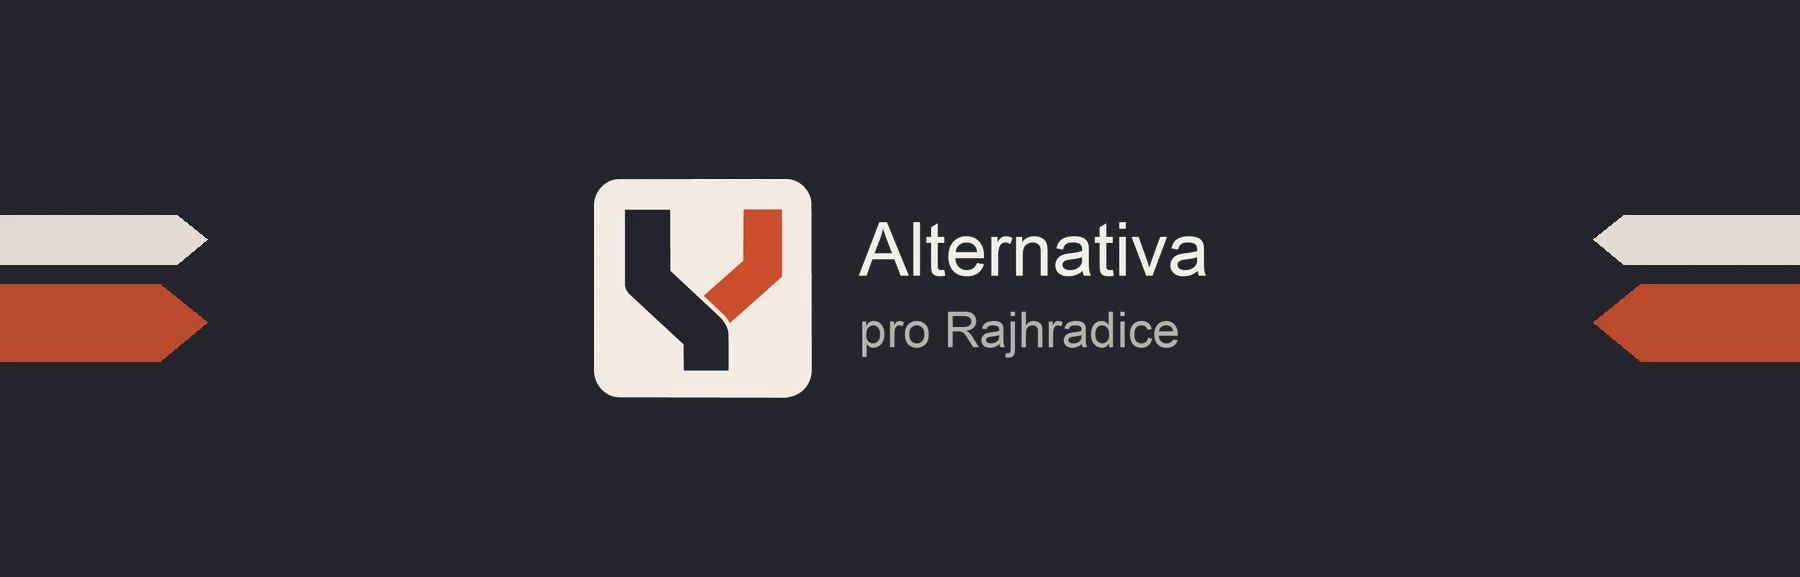
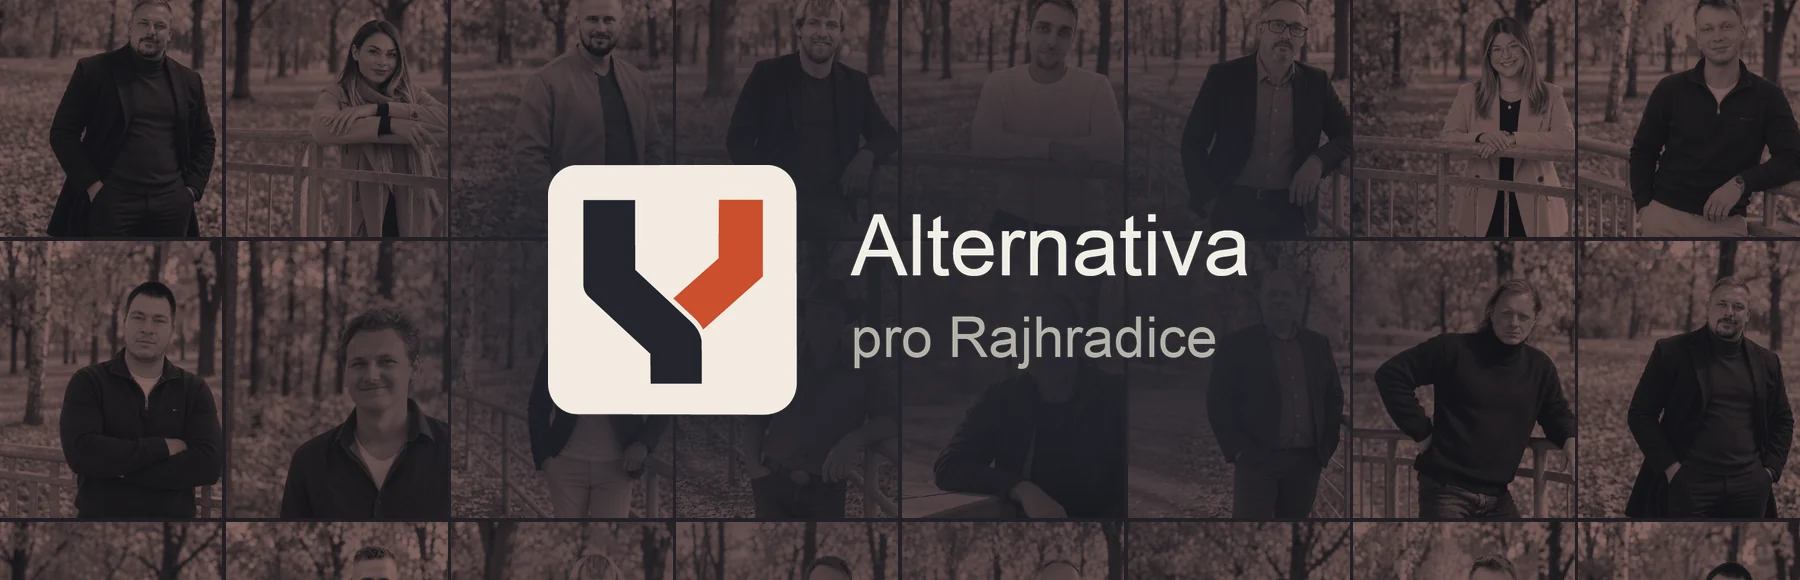
New share image, mosaic archive card, drop the website shots
Sharing the site now shows the hero: the dotted grid with TOMÁŠ HÁJEK and
Grafický designér. It lives under a new file name, so networks that cached
the old vinyl picture fetch it fresh. The Alternativa archive card uses
the candidate mosaic behind the logo, and the website screenshots are
gone from the case study.

diff --git a/projects/alternativa.html b/projects/alternativa.html
@@ -296,29 +296,7 @@
                 <div class="pd-section">
                     <h2 class="pd-title" data-en="Website">Web</h2>
                     <p class="pd-text" data-en="Everything the flyer and the posts point to lives on the website: profiles of the candidates, the full programme, the series of videos and a guide to voting in municipal elections. It uses the same cream, dark and brick as the rest of the campaign.">Všechno, na co leták a příspěvky odkazují, je na webu: medailonky kandidátů, celé znění programu, série videí a návod, jak volit v komunálních volbách. Stojí na stejné krémové, tmavé a cihlové jako zbytek kampaně.</p>
-                    <img src="../img/works/Alternativa/web-domu.webp" class="pd-image" alt="Úvodní stránka webu — heslo Máme tým, máme plán, máme sílu věci měnit přes fotky kandidátů" data-alt-en="The home page — the slogan We have a team, a plan and the strength to change things, over photos of the candidates" width="1920" height="981" loading="lazy">
-                            <span class="pd-caption" data-en="Home — the campaign slogan over photos of the candidates">Úvod — heslo kampaně přes fotky kandidátů</span>
-
-                    <div style="margin-top:3rem">
-                        <img src="../img/works/Alternativa/web-kandidati.webp" class="pd-image" alt="Stránka Kandidátka 2026 — seznam kandidátů a medailonek lídra" data-alt-en="The 2026 candidate list — the list of candidates and the lead candidate's profile" width="1920" height="981" loading="lazy">
-                            <span class="pd-caption" data-en="Candidates — the list and profiles">Kandidátka — seznam a medailonky</span>
-                    </div>
-
-<div style="margin-top:3rem">
-                        <img src="../img/works/Alternativa/web-program.webp" class="pd-image" alt="Volební program — tři sliby a rozdělení programu podle období" data-alt-en="The election programme — three promises and the programme split by period" width="1920" height="981" loading="lazy">
-                            <span class="pd-caption" data-en="Programme — the full text by period">Program — celé znění podle období</span>
-                    </div>
-
-<div style="margin-top:3rem">
-                        <img src="../img/works/Alternativa/web-videa.webp" class="pd-image" alt="Stránka Témata na kameru — seznam videí a detail vybraného tématu" data-alt-en="The On camera page — the list of videos and the selected topic" width="1920" height="981" loading="lazy">
-                            <span class="pd-caption" data-en="Videos — campaign topics on camera">Videa — témata kampaně na kameru</span>
-                    </div>
-
-<div style="margin-top:3rem">
-                        <img src="../img/works/Alternativa/web-jak-volit.webp" class="pd-image" alt="Stránka Jak volit — termíny voleb a návod krok za krokem" data-alt-en="The How to vote page — election dates and a step-by-step guide" width="1920" height="981" loading="lazy">
-                            <span class="pd-caption" data-en="How to vote — a guide to the municipal election">Jak volit — návod ke komunálním volbám</span>
-                    </div>
-                    <div style="display:flex;flex-wrap:wrap;gap:1rem;margin-top:2.5rem">
+                    <div style="display:flex;flex-wrap:wrap;gap:1rem;margin-top:1.5rem">
                         <a href="https://www.alternativaprorajhradice.cz/" target="_blank" rel="noopener" class="pd-btn" data-en="Open alternativaprorajhradice.cz ↗">Otevřít alternativaprorajhradice.cz ↗</a>
                     </div>
                 </div>

diff --git a/index.html b/index.html
@@ -17,10 +17,10 @@
     <meta property="og:url" content="https://tomashajek.com/">
     <meta property="og:title" content="Tomáš Hájek — Designer & Digital Artist">
     <meta property="og:description" content="Grafický designér a digitální umělec z Brna. Branding, vizuální identita, print design.">
-    <meta property="og:image" content="https://tomashajek.com/img/og-image.jpg">
+    <meta property="og:image" content="https://tomashajek.com/img/og-tomas-hajek.jpg">
     <meta property="og:image:width" content="1200">
     <meta property="og:image:height" content="630">
-    <meta property="og:image:alt" content="Tomáš Hájek — Designer Portfolio">
+    <meta property="og:image:alt" content="Tomáš Hájek — grafický designér">
     <meta property="og:locale" content="cs_CZ">
     <meta property="og:site_name" content="Tomáš Hájek Portfolio">
 
@@ -29,8 +29,8 @@
     <meta name="twitter:url" content="https://tomashajek.com/">
     <meta name="twitter:title" content="Tomáš Hájek — Designer & Digital Artist">
     <meta name="twitter:description" content="Grafický designér a digitální umělec z Brna. Branding, vizuální identita, print design.">
-    <meta name="twitter:image" content="https://tomashajek.com/img/og-image.jpg">
-    <meta name="twitter:image:alt" content="Tomáš Hájek — Designer Portfolio">
+    <meta name="twitter:image" content="https://tomashajek.com/img/og-tomas-hajek.jpg">
+    <meta name="twitter:image:alt" content="Tomáš Hájek — grafický designér">
 
     <!-- Theme -->
     <meta name="theme-color" content="#ff3366">
